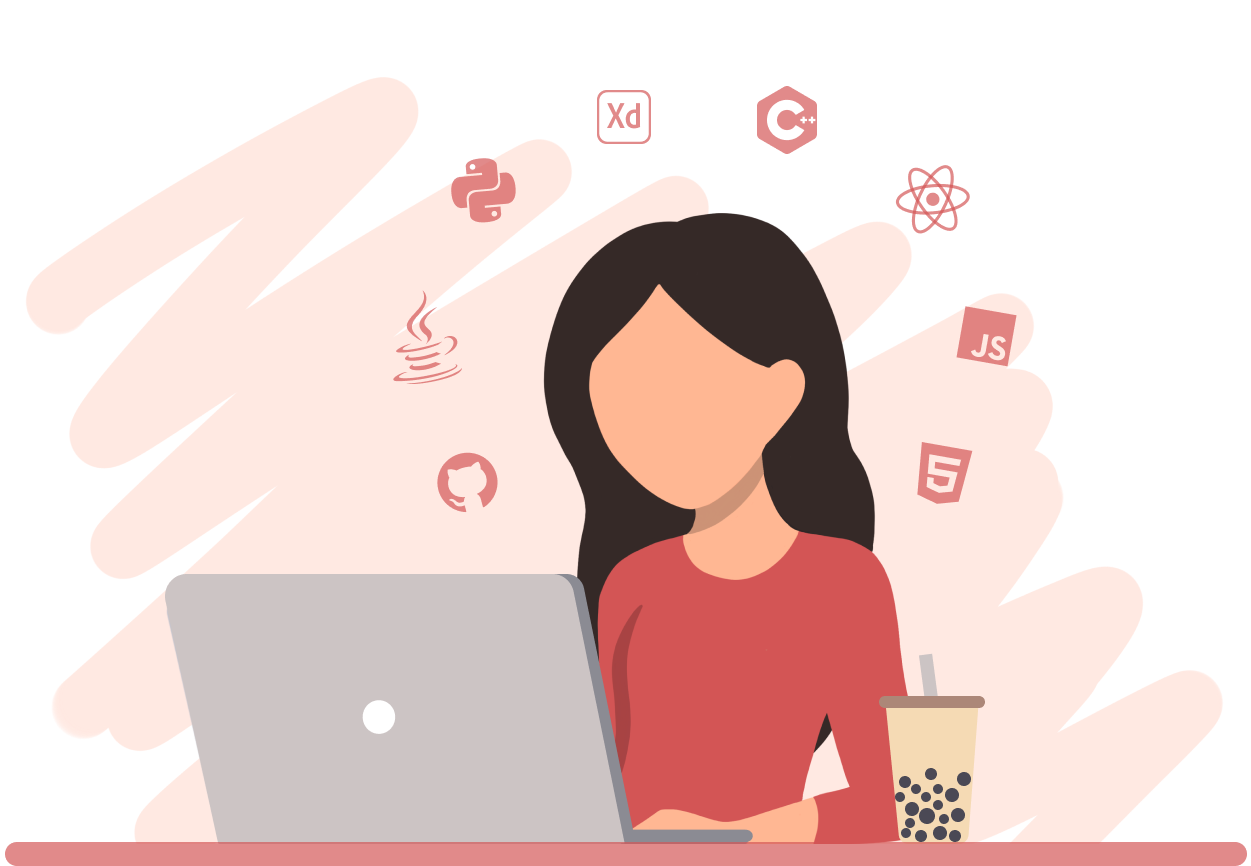
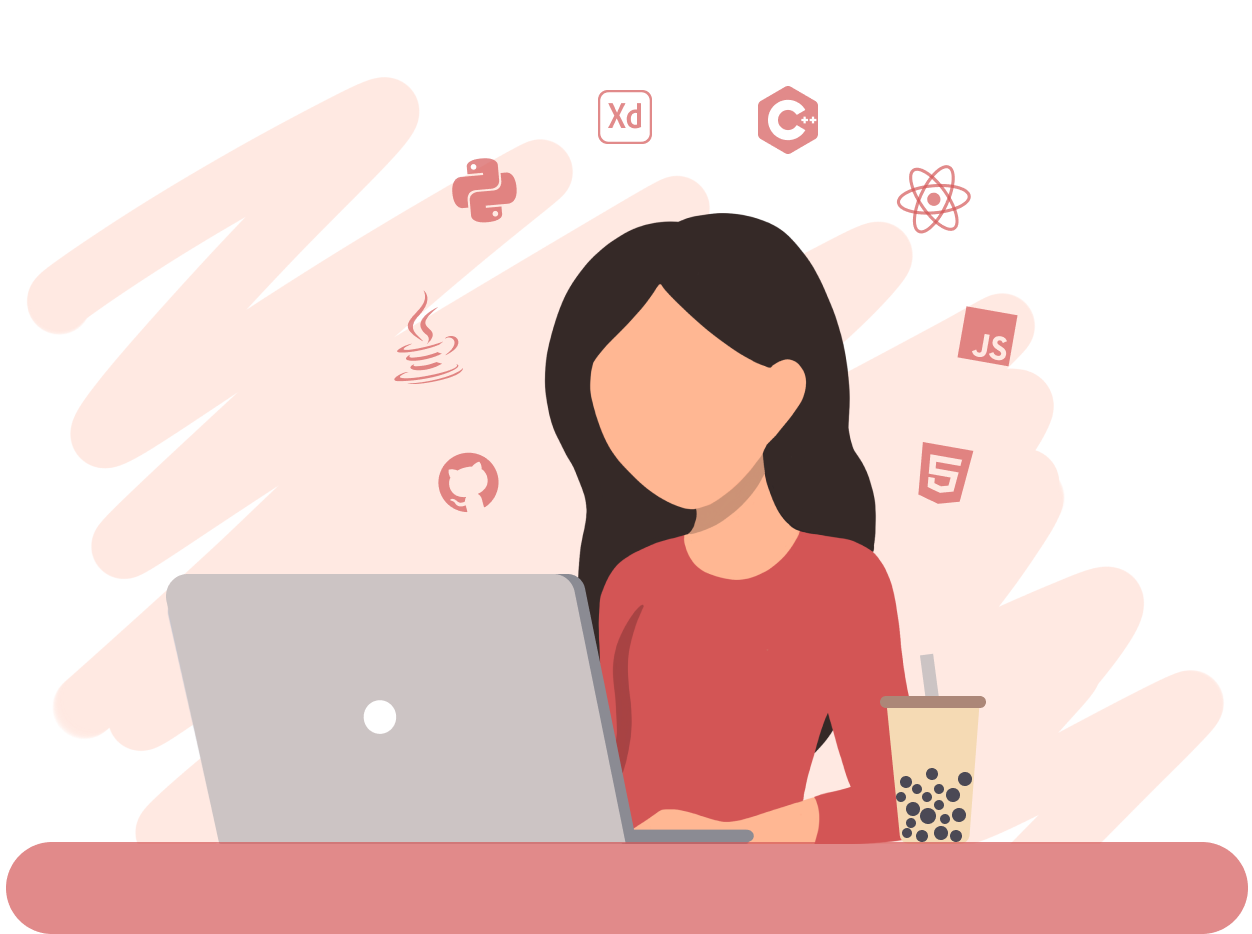
edit hero image

diff --git a/src/pages/index.module.scss b/src/pages/index.module.scss
@@ -3,6 +3,11 @@ $secondaryColor: #252525;
 $pinkBackground: #FFE9E2;
 $mainWhite: #fff;
 
+.scribble {
+    width: 100%;
+    padding-bottom: 70px;
+}
+
 .underline{
     border: none;
     background-color: #E18A8A;
@@ -24,7 +29,7 @@ $mainWhite: #fff;
       padding-top: 80px;
       padding-left: 10px;
       padding-right: 10px;
-      padding-bottom: 220px;
+      padding-bottom: 0px;
 
       .top-left {
         position: absolute;
@@ -34,7 +39,7 @@ $mainWhite: #fff;
         padding-top: 0px;
         padding-left: 6%;
         padding-right: 600px;
-        padding-bottom: 200px;
+        padding-bottom: 100px;
     }
 
     .h-container {
@@ -120,7 +125,7 @@ $mainWhite: #fff;
 .block {
     padding-top: 60px;
     padding-left: 0px;
-    padding-bottom: 50px;
+    padding-bottom: 240px;
     background-color: white;
 }
 
@@ -181,7 +186,7 @@ $mainWhite: #fff;
         padding-top: 80px;
         padding-left: 0px;
         padding-right: 0px;
-        padding-bottom: 250px;
+        padding-bottom: 0px;
         width: 100%;
 
         .top-left {
@@ -214,13 +219,13 @@ $mainWhite: #fff;
         padding-top: 150px;
         padding-left: 0px;
         padding-right: 0px;
-        padding-bottom: 50px;
+        padding-bottom: 260px;
         background-color: white;
     }
 
     .pink {
         padding-top: 0px;
-        padding-bottom: 100px;
+        padding-bottom: 50px;
         padding-left: 0px;
         padding-right: 0px;
     }

diff --git a/src/pages/index.js b/src/pages/index.js
@@ -17,16 +17,15 @@ const Index = () => {
         <div className={indexStyles.imageContainer}>
             <div className={indexStyles.topLeft}>
                 <div className={indexStyles.hContainer}>
-                <img src={HeroSmall} alt="Hero" className={indexStyles.heroImageMobile}/>
                 <p className={indexStyles.subTitle}>Hi, my name is</p>
                 <h1>Lia</h1>
                 <h1>Mason</h1>
                 <p className={indexStyles.subTitle}>I’m a third year software design student at Queen’s University in Ontario, Canada :)</p>
+                <img src={HeroSmall} alt="Hero" className={indexStyles.heroImageMobile}/>
                 </div>
             </div>
             <div className={indexStyles.block}>
               <img src={Hero} alt="Hero" className={indexStyles.heroImage}/>
-              {/* <img src={HeroSmall} alt="Hero" className={indexStyles.heroImageMobile}/> */}
             </div>
         </div>
         <div className={indexStyles.pink}>

diff --git a/src/pages/contact.module.scss b/src/pages/contact.module.scss
@@ -38,3 +38,25 @@ $secondaryColor: #252525;
     margin: 50px 0 0 0;
     display: inline-block;
 }
+
+@media screen and (max-width: 780px) {
+
+    .container {
+        position: relative;
+        width: 100%;
+        margin-top: 50px;
+        margin-left: auto;
+        margin-right: auto;
+        display: flex;
+        justify-content: center;
+    }
+
+    .emoji{
+        //display: inline-block;
+        width: auto;
+        height: 35px;
+        display: flex;
+        //margin: 0px 12px
+    }
+
+}

diff --git a/src/styles/style.scss b/src/styles/style.scss
@@ -28,7 +28,6 @@ h2 {
   margin: 50px 0px 10px 100px;
   color: $secondaryColor;
   font-weight: 400;
-  //font-size: 3vw;
   font-size: 35px;
   letter-spacing: 1px;
   white-space: nowrap;
@@ -80,6 +79,17 @@ body {
     font-weight: 800;
     font-size: 12vw;  
     letter-spacing: 1.2px;
+  }
+
+  h2 {
+    text-align: center;
+    margin: auto;
+    color: $secondaryColor;
+    font-weight: 400;
+    font-size: 35px;
+    letter-spacing: 1px;
+    white-space: nowrap;
+    display: flex;
   }
 }
 

diff --git a/src/pages/about.module.scss b/src/pages/about.module.scss
@@ -37,3 +37,23 @@
 .textContainer {
     margin: 0px 100px 100px 100px;
 }
+
+@media screen and (max-width: 780px) {
+
+    .container {
+        margin-top: 50px;
+        margin-left: auto;
+        margin-right: auto;
+        display: flex;
+        justify-content: center;
+    }
+
+    .emoji{
+        //display: inline-block;
+        width: auto;
+        height: 35px;
+        display: flex;
+        //margin: 0px 12px
+    }
+
+}
